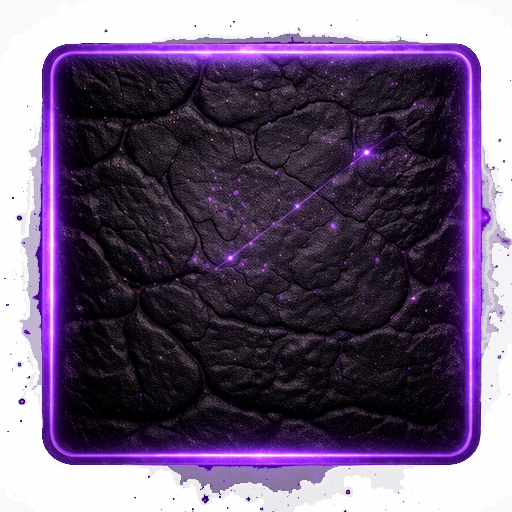
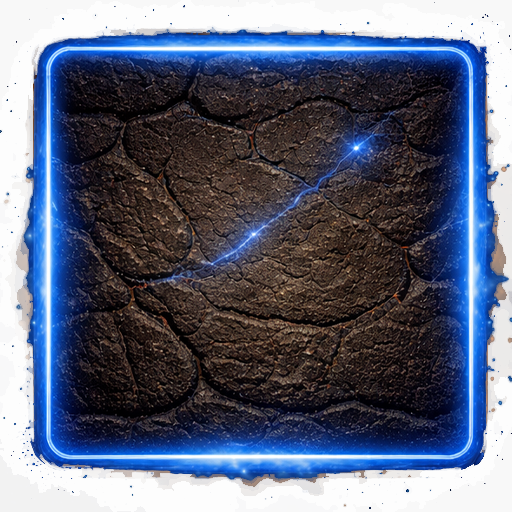
Reorder grid row colors for maximum contrast
New color order (top to bottom):
  O: Green, H: Yellow, S: Purple, K: Orange, B: Blue, T: Red

Swapped sprite files and updated PAL.gridOn/gridX colors to match.
Adjacent rows now have high contrast instead of rainbow gradient.

https://claude.ai/code/session_01G5BVS6AuEHTNY6BUik5pS5

diff --git a/game.js b/game.js
@@ -1112,8 +1112,8 @@ const PAL = {
     floor:     "#0d150d",
     floorAlt:  "#111911",
     gridOff:   "#1a2820",
-    gridOn:    ["#44ff44", "#88ee22", "#ee8822", "#ff6611", "#ff4400", "#33dd88"], // per-row colors (O,H,S,K,B,T): green→orange→teal
-    gridX:     ["#ff4400", "#331a0a", "#44ff44", "#88ee22", "#44ff44", "#ff4400"], // bright X indicators
+    gridOn:    ["#44ff44", "#ddcc22", "#aa44ff", "#ee8822", "#4488ff", "#ff4400"], // per-row colors (O,H,S,K,B,T): green, yellow, purple, orange, blue, red
+    gridX:     ["#ff4400", "#6633aa", "#ee8822", "#aa44ff", "#ff4400", "#44ff44"], // bright X indicators (contrasting)
     gridBorder:"#2a3a2a",
     playhead:  "#44ff44",
     player:    "#efd8a1",
